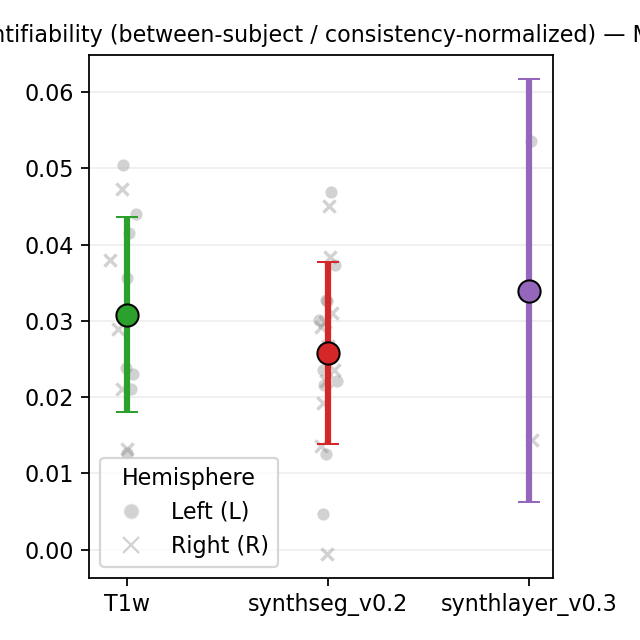
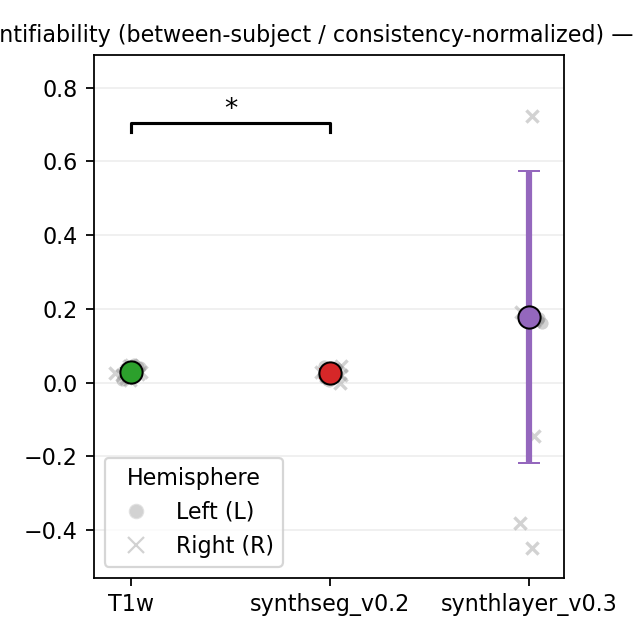
cleaner CGI plts

diff --git a/unet_comp/CGI_calc-midthickness.py b/unet_comp/CGI_calc-midthickness.py
@@ -19,7 +19,7 @@ HEMIS      = ["L", "R"]
 FEATURES   = ["midthickness"]
 
 DEN    = "8k"
-LABELS = ["hipp", "dentate"]   # <-- NEW: concatenate these (in this order)
+LABELS = ["hipp", "dentate"]   # concatenate these (in this order)
 SUBDIR = "surf"  # geometry lives in *.surf.gii
 
 # Roots to micapipe derivatives where the ANTs affines live
@@ -38,9 +38,12 @@ RNG_SEED     = 42
 JITTER_STD   = 0.035
 MEAN_S       = 140
 
-QC_DICE_THRESH = 0.7
+QC_DICE_THRESH = 0.6
 QC_SUBDIR = "qc"
 QC_DESC = "unetf3d"
+
+# Outlier removal: 3 SD from the median (computed per-dataset/condition/hemi over subject-level metrics)
+OUTLIER_Z = 3.0
 
 # ---------------------------
 # Read participant lists (row aligned across datasets)
@@ -130,7 +133,6 @@ def probe_vector_length(datasets: List[str], conditions: List[str], hemis: List[
     for ds in datasets:
         for cond in conditions:
             base_dir = f"hippunfold_{ds}_{cond}"
-            # walk a couple of subjects/sessions to find a hit
             sub_dirs = sorted(glob.glob(os.path.join(base_dir, "sub-*")))
             for sub_dir in sub_dirs[:10]:
                 sub = os.path.basename(sub_dir).split("-")[-1]
@@ -155,7 +157,6 @@ def probe_vector_length(datasets: List[str], conditions: List[str], hemis: List[
                                 break
                         if ok and total > 0:
                             return total
-    # fallback: old 8k assumption, doubled for two labels
     nV_default = 8192
     F_fallback = int(len(FEATURES) * 3 * nV_default * len(LABELS))
     print(f"[INFO] probe_vector_length: using fallback F={F_fallback} (no files found during probe)")
@@ -193,7 +194,6 @@ def load_concat_vector(base_dir: str, ds: str, sub: str, ses: str, hemi: str, F_
         return np.full((F_target,), np.nan, dtype=np.float64)
 
     vecs = []
-    # Build transform path (micapipe derivatives)
     xfm_root = MICAPIPE_ROOTS.get(ds, "")
     mat_path = os.path.join(
         xfm_root,
@@ -206,7 +206,6 @@ def load_concat_vector(base_dir: str, ds: str, sub: str, ses: str, hemi: str, F_
     if A is None:
         return np.full((F_target,), np.nan, dtype=np.float64)
 
-    # Concatenate in a fixed, reproducible order: LABELS (hipp, dentate) × FEATURES
     for label in LABELS:
         for feat in FEATURES:
             p = _first_existing_path(base_dir, sub, ses, hemi, label, feat)
@@ -216,7 +215,6 @@ def load_concat_vector(base_dir: str, ds: str, sub: str, ses: str, hemi: str, F_
             if coords is None:
                 return np.full((F_target,), np.nan, dtype=np.float64)
 
-            # ---- APPLY TRANSFORM to MNI152 (linear) ----
             coords_mni = apply_affine(coords, A)
             coords_norm = coords_mni - np.nanmean(coords_mni, axis=0, keepdims=True)
             if hemi == "L":
@@ -225,7 +223,6 @@ def load_concat_vector(base_dir: str, ds: str, sub: str, ses: str, hemi: str, F_
             vecs.append(arr)
 
     cat = np.concatenate(vecs, axis=0) if vecs else np.empty((0,), dtype=np.float64)
-    # Pad/truncate to target length to keep array shapes consistent
     out = np.full((F_target,), np.nan, dtype=np.float64)
     n = min(F_target, cat.size)
     if n > 0:
@@ -235,17 +232,14 @@ def load_concat_vector(base_dir: str, ds: str, sub: str, ses: str, hemi: str, F_
 # ===========================
 # Allocate, populate, and compute metrics
 # ===========================
-# 1) Probe F dynamically (total concatenated feature length)
 F = probe_vector_length(DATASETS, CONDITIONS, HEMIS)
 print(f"[INFO] Using F={F} features per hemi (concat of {LABELS} × {FEATURES} × xyz)")
 
-# 2) Allocate big tensor: X[d,c,h,s,t,f] filled with NaN
 X = np.full(
     (len(DATASETS), len(CONDITIONS), len(HEMIS), max_subject_rows, MAX_SESSIONS, F),
     np.nan, dtype=np.float64
 )
 
-# 3) Populate X from disk
 for d_i, ds in enumerate(DATASETS):
     subj_ids = tables.get(ds, [])
     for c_i, cond in enumerate(CONDITIONS):
@@ -299,12 +293,12 @@ for d_i, ds in enumerate(DATASETS):
                 else:
                     cors = []
                     for i in range(len(sess_vecs)):
-                        for j in range(i+1, len(sess_vecs)):
+                        for j in range(i + 1, len(sess_vecs)):
                             cors.append(pearsonr_nan(sess_vecs[i], sess_vecs[j]))
                     cons = np.nanmean(cors) if len(cors) else np.nan
                 rows_consistency.append([ds, cond, hemi, s_i, cons])
 
-df_cons = pd.DataFrame(rows_consistency, columns=["dataset","condition","hemi","subject_row","consistency"])
+df_cons = pd.DataFrame(rows_consistency, columns=["dataset", "condition", "hemi", "subject_row", "consistency"])
 
 # ---------------------------
 # Block 2: Identifiability (normalized separation)
@@ -331,23 +325,23 @@ for d_i, ds in enumerate(DATASETS):
                         cors.append(pearsonr_nan(m_this, m_other))
                     between = np.nanmean(cors) if len(cors) else np.nan
                     cons_row = df_cons[
-                        (df_cons["dataset"]==ds) &
-                        (df_cons["condition"]==cond) &
-                        (df_cons["hemi"]==hemi) &
-                        (df_cons["subject_row"]==s_i)
+                        (df_cons["dataset"] == ds) &
+                        (df_cons["condition"] == cond) &
+                        (df_cons["hemi"] == hemi) &
+                        (df_cons["subject_row"] == s_i)
                     ]
-                    cons = cons_row["consistency"].values[0] if len(cons_row)==1 else np.nan
-                    ident = ((cons - between) / cons ) if (not np.isnan(between) and not np.isnan(cons) and cons != 0) else np.nan
+                    cons = cons_row["consistency"].values[0] if len(cons_row) == 1 else np.nan
+                    ident = ((cons - between) / cons) if (not np.isnan(between) and not np.isnan(cons) and cons != 0) else np.nan
                 rows_ident.append([ds, cond, hemi, s_i, ident])
 
-df_ident = pd.DataFrame(rows_ident, columns=["dataset","condition","hemi","subject_row","identifiability"])
+df_ident = pd.DataFrame(rows_ident, columns=["dataset", "condition", "hemi", "subject_row", "identifiability"])
 
 # ---------------------------
 # Block 3: Generalizability (pairwise: PNI–MICs)
 # ---------------------------
-PAIR_NAMES = [("PNI","MICs")]
+PAIR_NAMES = [("PNI", "MICs")]
 rows_gen = []
-ds_to_idx = {ds:i for i,ds in enumerate(DATASETS)}
+ds_to_idx = {ds: i for i, ds in enumerate(DATASETS)}
 
 for c_i, cond in enumerate(CONDITIONS):
     for h_i, hemi in enumerate(HEMIS):
@@ -367,16 +361,62 @@ for c_i, cond in enumerate(CONDITIONS):
 
 df_gen = pd.DataFrame(
     rows_gen,
-    columns=["dataset_pair","condition","hemi","subject_row","generalizability"]
+    columns=["dataset_pair", "condition", "hemi", "subject_row", "generalizability"]
+)
+
+# ---------------------------
+# NEW: Outlier removal (3 SD from median) per dataset/condition/hemi/measure
+# ---------------------------
+def remove_outliers_3sd_from_median(df: pd.DataFrame, value_col: str, group_cols: List[str]) -> pd.DataFrame:
+    """
+    Set outliers to NaN (not drop rows) using criterion:
+      |x - median| > OUTLIER_Z * std
+    where median/std computed within each group over finite values.
+    """
+    out = df.copy()
+    if out.empty:
+        return out
+
+    # ensure numeric
+    out[value_col] = pd.to_numeric(out[value_col], errors="coerce")
+
+    def _mask_group(g: pd.DataFrame) -> pd.Series:
+        v = g[value_col].to_numpy(dtype=float)
+        m = np.isfinite(v)
+        if m.sum() < 3:
+            return pd.Series([False] * len(g), index=g.index)
+        med = float(np.nanmedian(v))
+        sd = float(np.nanstd(v, ddof=1))
+        if not np.isfinite(sd) or sd == 0:
+            return pd.Series([False] * len(g), index=g.index)
+        z = np.abs(v - med) / sd
+        return pd.Series(z > OUTLIER_Z, index=g.index)
+
+    mask_outlier = out.groupby(group_cols, group_keys=False).apply(_mask_group)
+    n_out = int(np.nansum(mask_outlier.to_numpy(dtype=bool)))
+    if n_out > 0:
+        print(f"[INFO] Outlier filter: setting {n_out} values to NaN in {value_col} (groups={group_cols}, z>{OUTLIER_Z})")
+        out.loc[mask_outlier, value_col] = np.nan
+    return out
+
+# Apply to each metric table
+df_cons = remove_outliers_3sd_from_median(
+    df_cons, value_col="consistency", group_cols=["dataset", "condition", "hemi"]
+)
+df_ident = remove_outliers_3sd_from_median(
+    df_ident, value_col="identifiability", group_cols=["dataset", "condition", "hemi"]
+)
+df_gen = remove_outliers_3sd_from_median(
+    df_gen, value_col="generalizability", group_cols=["dataset_pair", "condition", "hemi"]
 )
 
 # ---------------------------
 # Save combined CSV
 # ---------------------------
 df_all = pd.concat([
-    df_cons.assign(measure="consistency",       value=df_cons["consistency"])[["dataset","condition","hemi","subject_row","measure","value"]],
-    df_ident.assign(measure="identifiability",  value=df_ident["identifiability"])[["dataset","condition","hemi","subject_row","measure","value"]],
-    df_gen.assign(measure="generalizability",   value=df_gen["generalizability"])[["dataset_pair","condition","hemi","subject_row","measure","value"]],
+    df_cons.assign(measure="consistency",      value=df_cons["consistency"])[["dataset","condition","hemi","subject_row","measure","value"]],
+    df_ident.assign(measure="identifiability", value=df_ident["identifiability"])[["dataset","condition","hemi","subject_row","measure","value"]],
+    df_gen.assign(measure="generalizability",  value=df_gen["generalizability"])[["dataset_pair","condition","hemi","subject_row","measure","value"]],
 ], ignore_index=True)
 
 df_all.to_csv("metrics_per_subject.csv", index=False)
